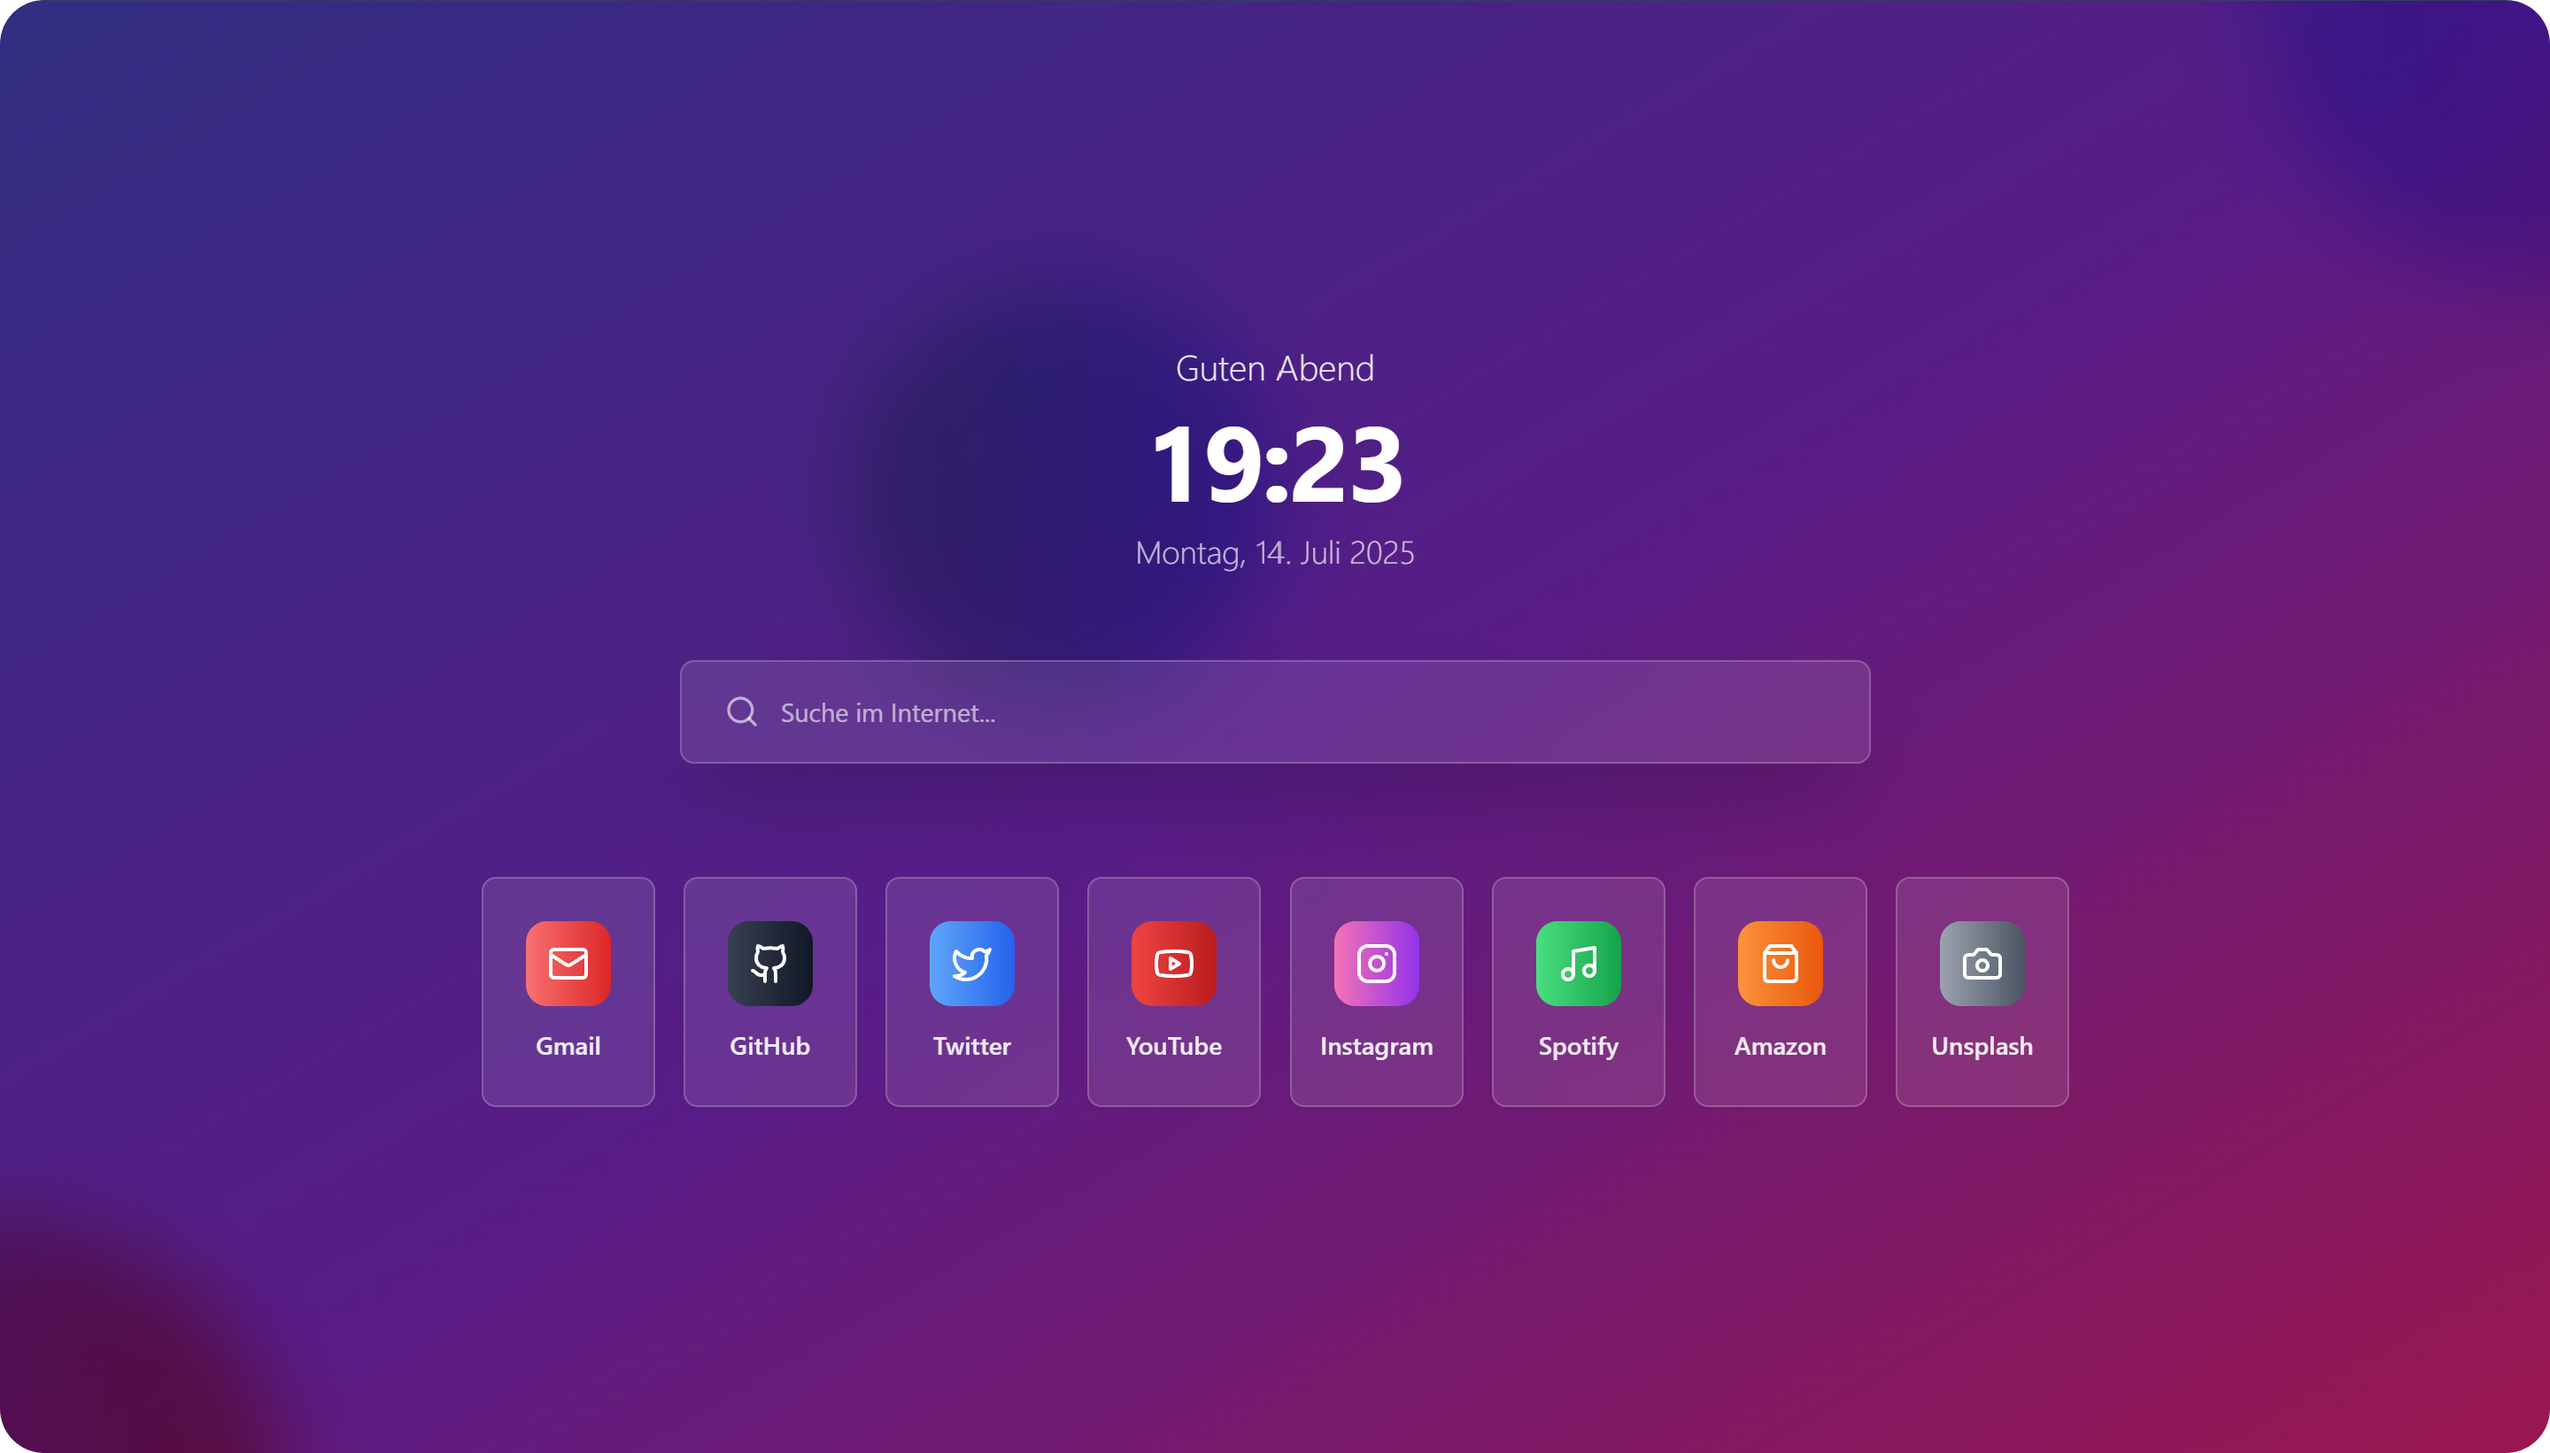
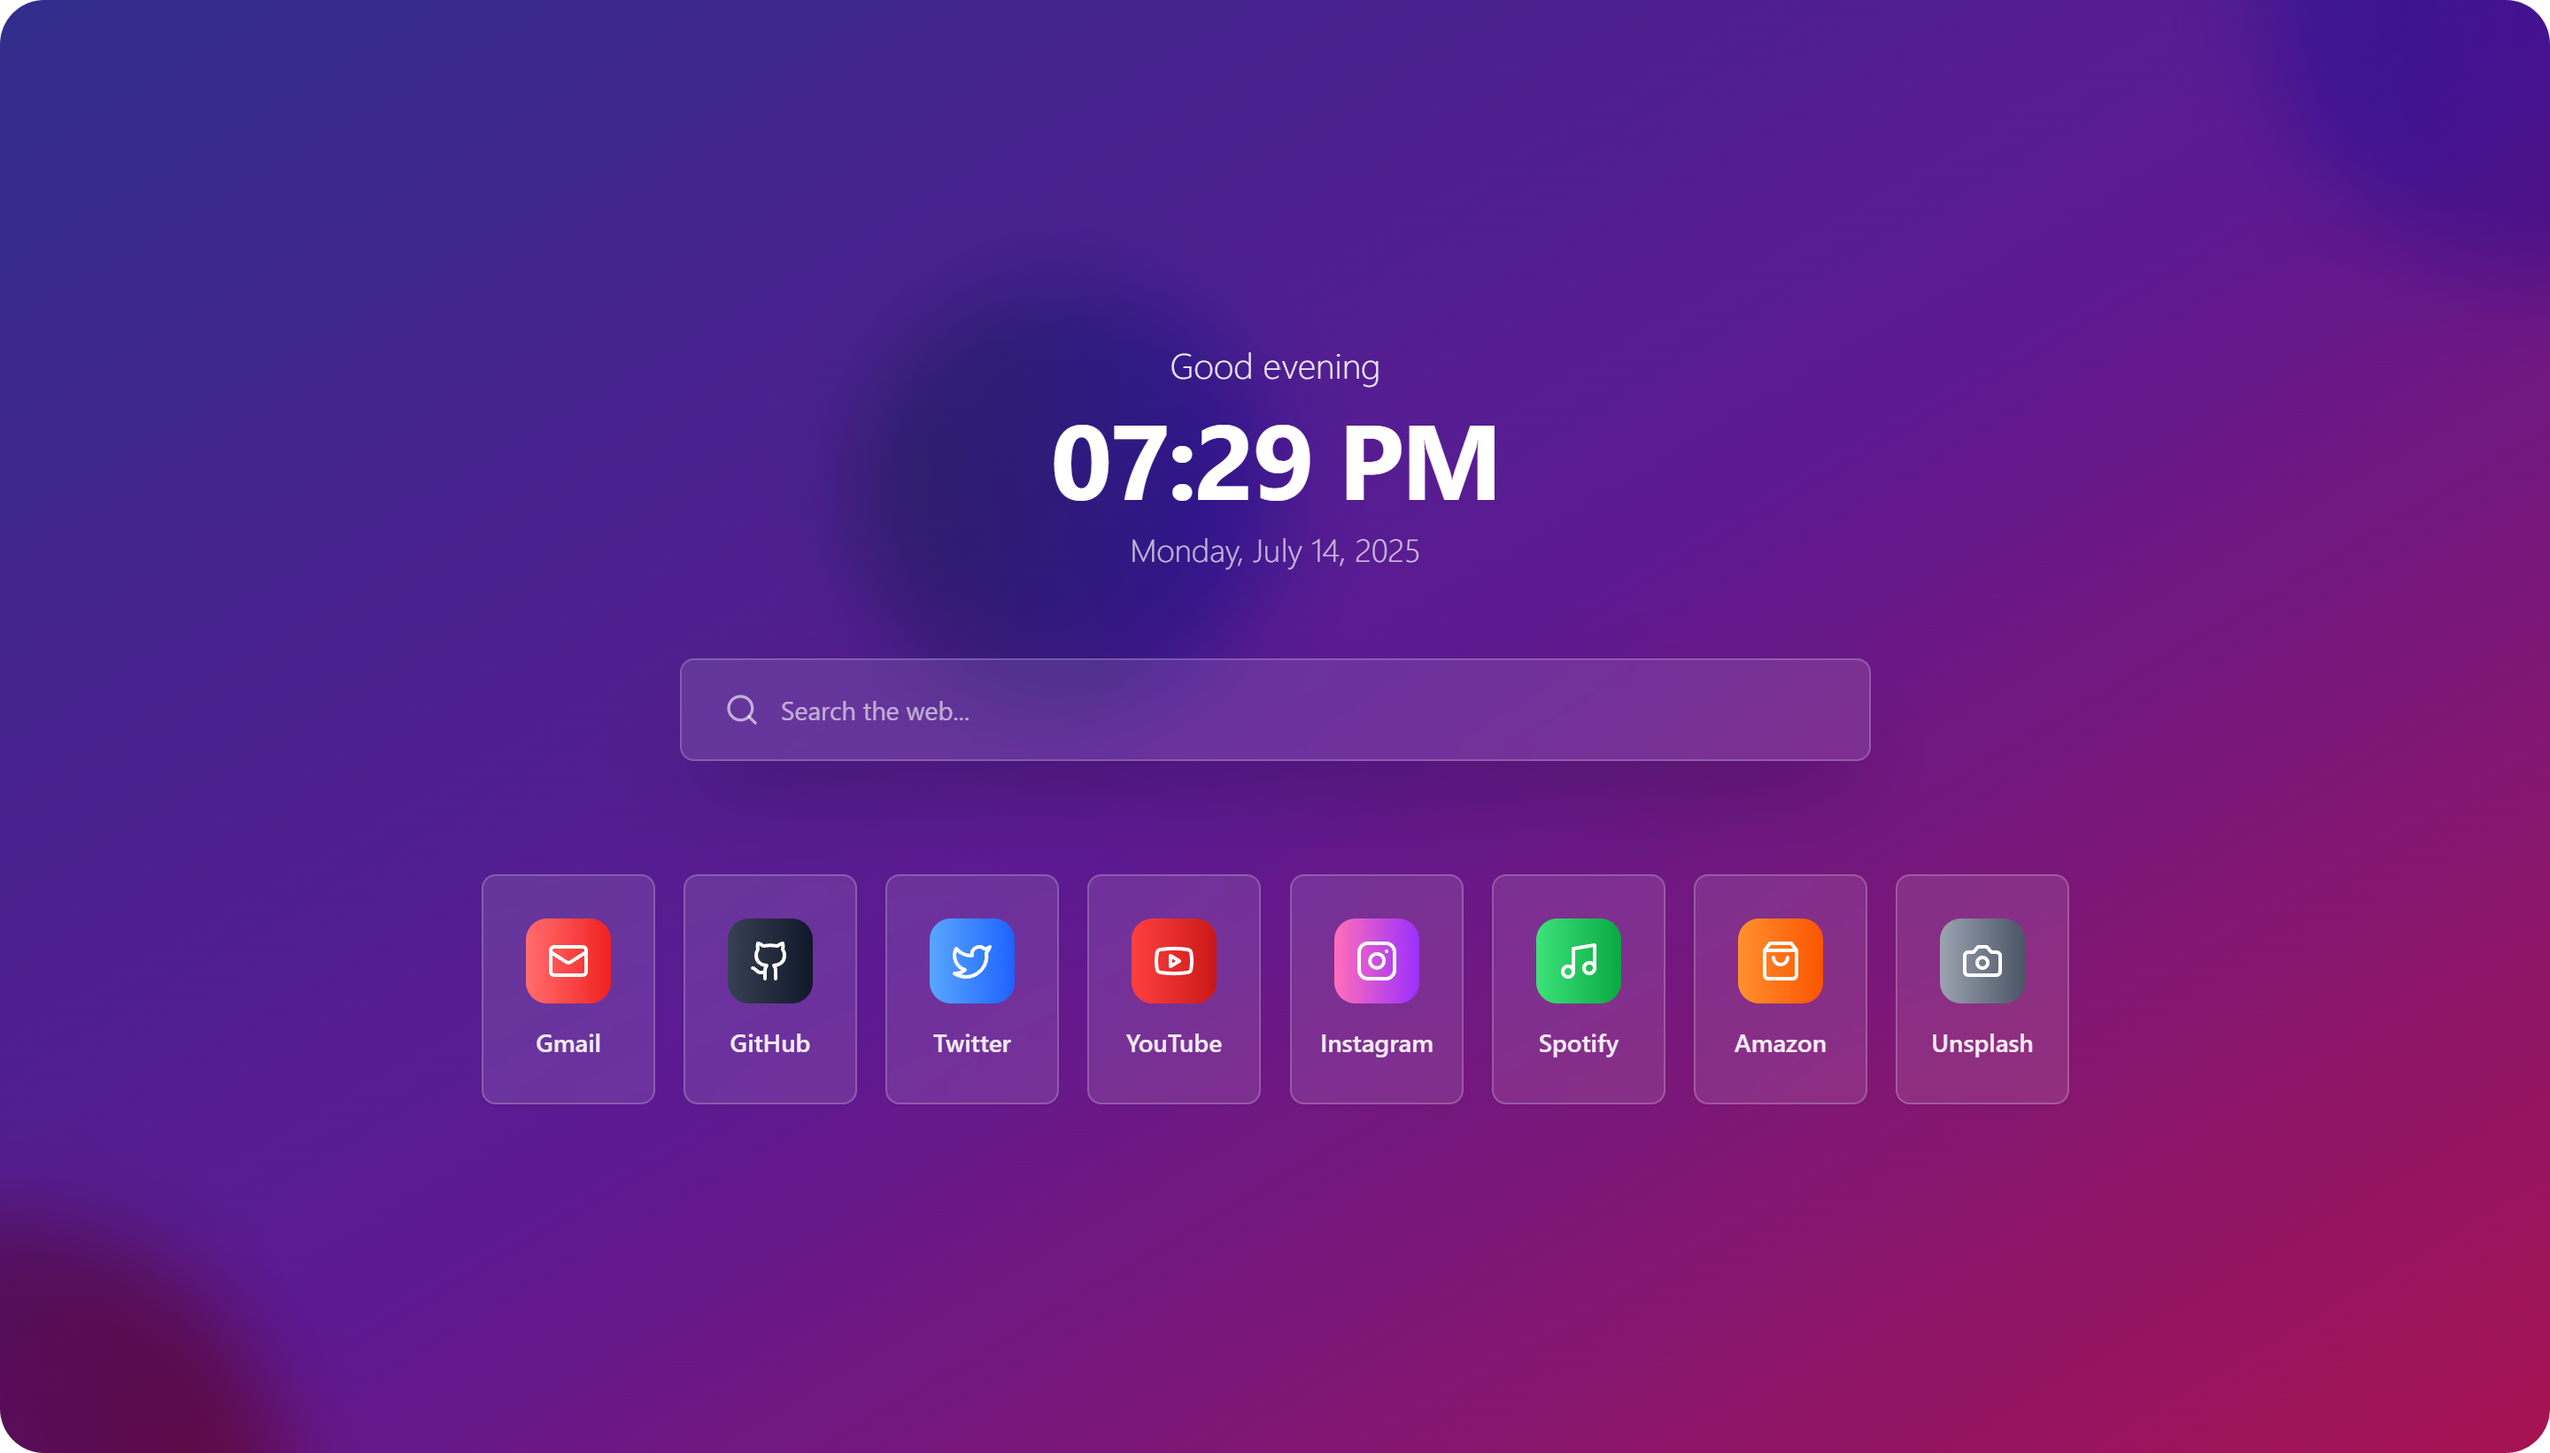
Added more saturation; new preview image

diff --git a/dist/tab/index.html b/dist/tab/index.html
@@ -609,7 +609,7 @@
     }
   </style>
 </head>
-<body>
+<body style="filter: saturate(1.125);">
   <div id="root">
     <div role="region" aria-label="Notifications (F8)" tabindex="-1" style="pointer-events: none;">
       <ol tabindex="-1"
